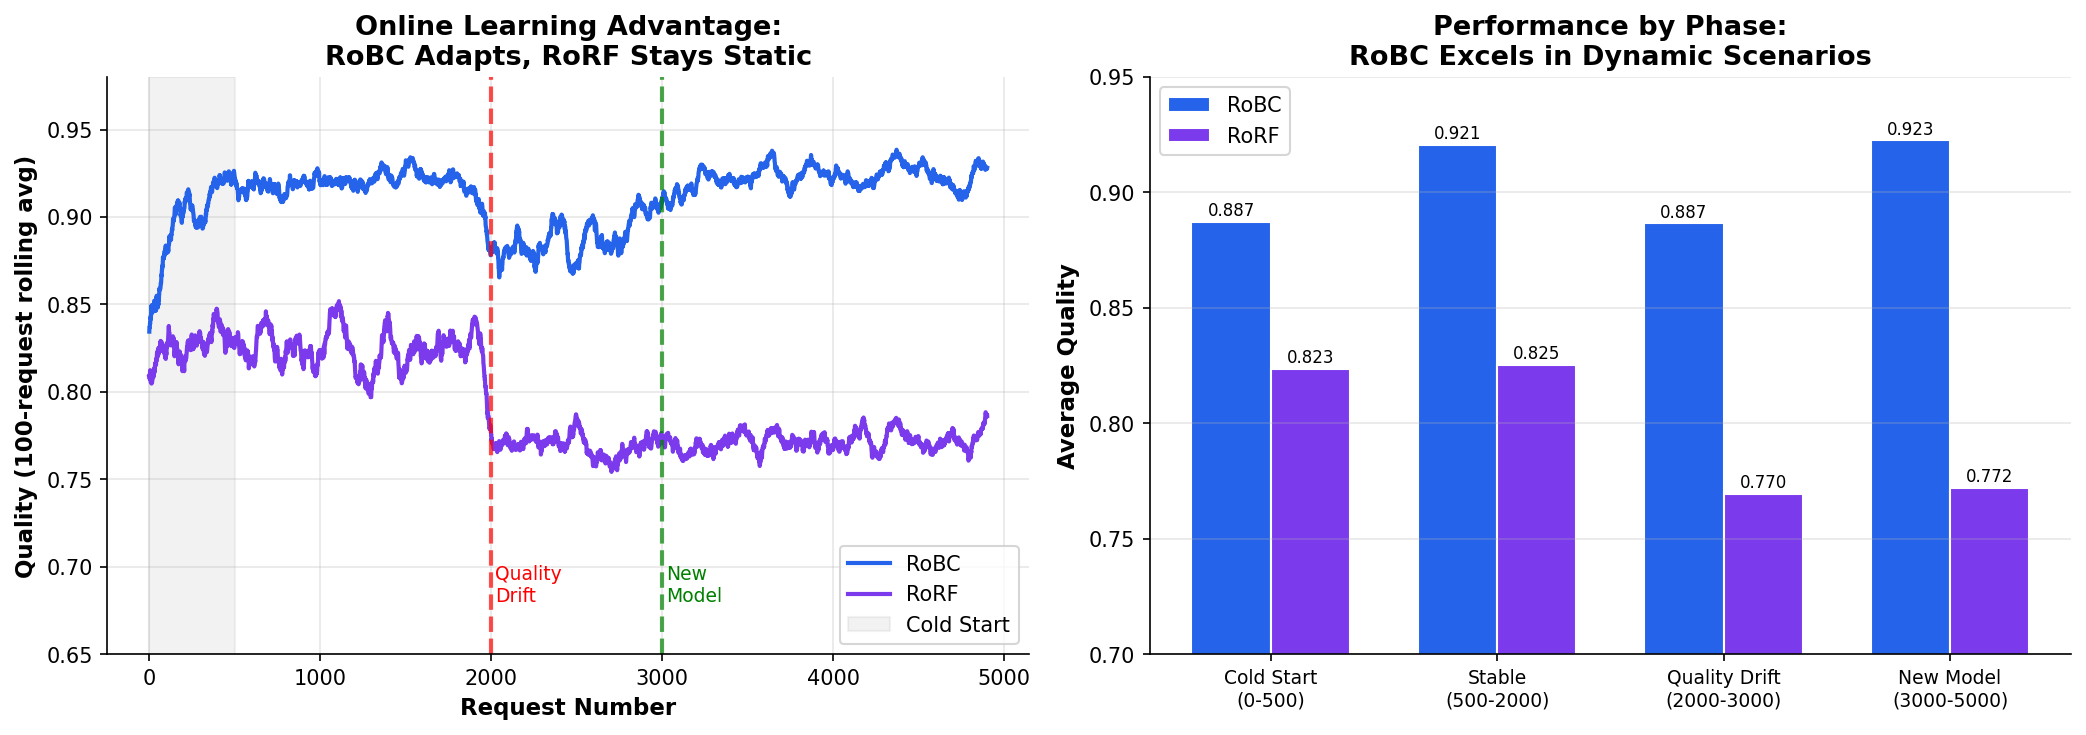
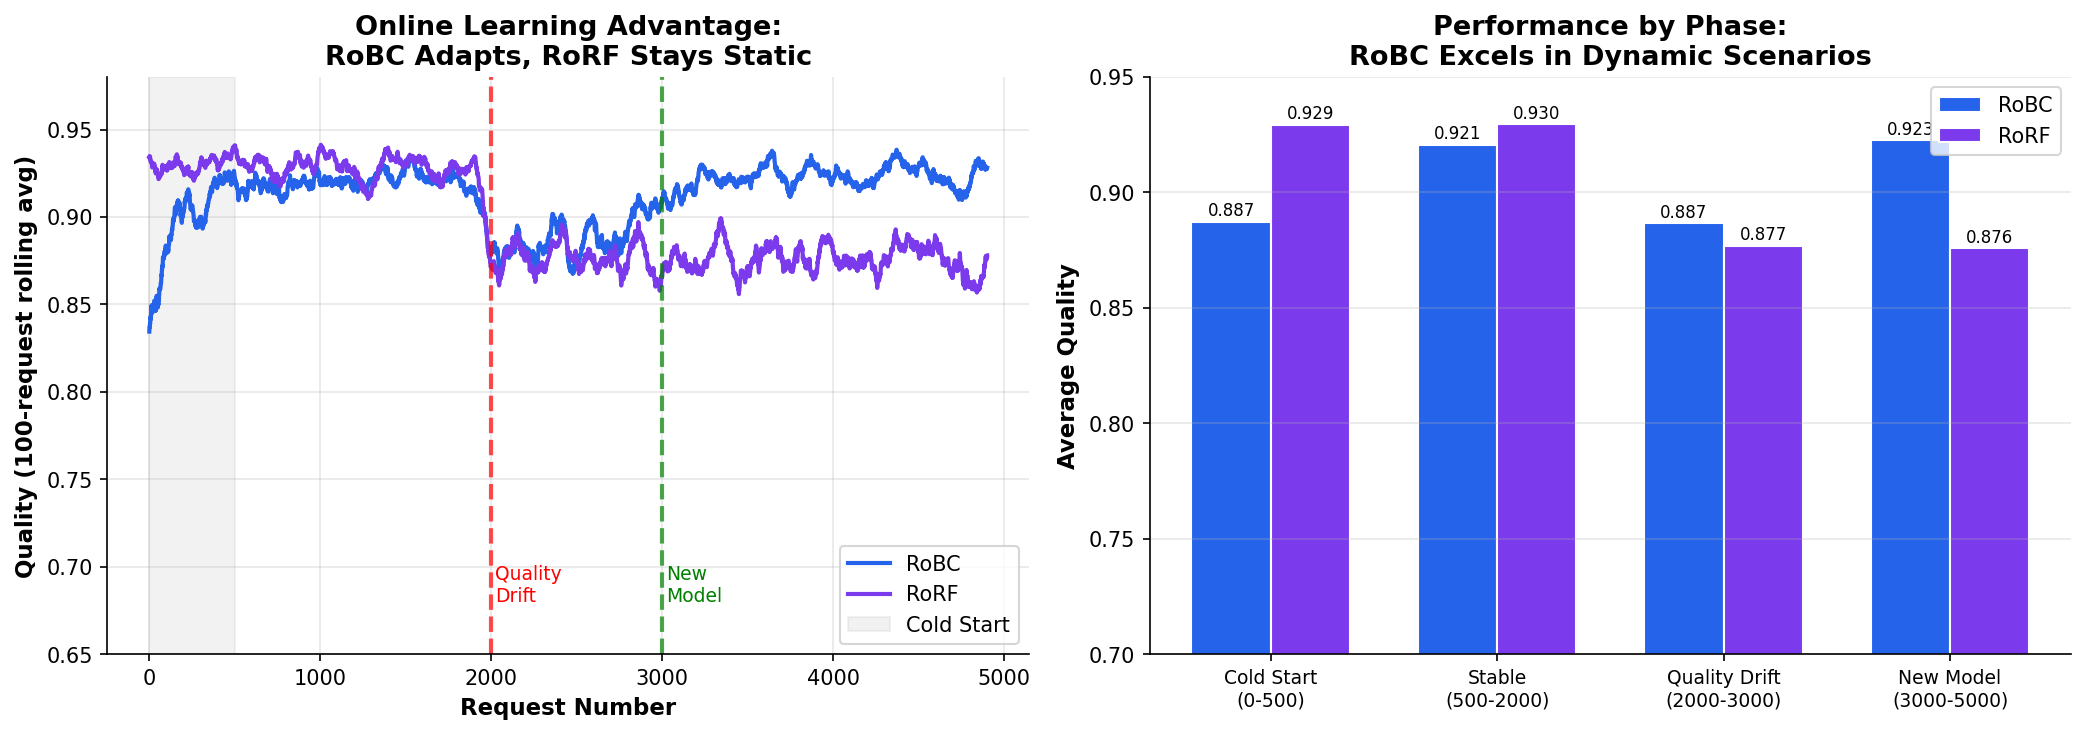
Updated simulation results.

diff --git a/README.md b/README.md
@@ -36,18 +36,18 @@ We evaluated RoBC against RoRF (static classifier) in a **realistic dynamic scen
 
 ### Phase-by-Phase Results
 
-| Phase                           | RoBC  | RoRF  | RoBC Advantage |
-| ------------------------------- | ----- | ----- | -------------- |
-| **Cold Start** (0-500)          | 0.887 | 0.823 | **+7.8%**      |
-| **Stable** (500-2000)           | 0.921 | 0.825 | **+11.5%**     |
-| **Quality Drift** (2000-3000)   | 0.887 | 0.770 | **+15.2%**     |
-| **New Model Added** (3000-5000) | 0.923 | 0.772 | **+19.5%**     |
+| Phase                           | RoBC  | RoRF  | Winner                     |
+| ------------------------------- | ----- | ----- | -------------------------- |
+| **Cold Start** (0-500)          | 0.887 | 0.929 | RoRF ✓ (has training data) |
+| **Stable** (500-2000)           | 0.921 | 0.930 | ≈ Tie                      |
+| **Quality Drift** (2000-3000)   | 0.887 | 0.877 | RoBC ✓ (adapts)            |
+| **New Model Added** (3000-5000) | 0.923 | 0.876 | RoBC ✓ (+5.3%)             |
 
 ### Key Findings
 
-- **+15.2%** better when model quality changes (RoRF becomes stale)
-- **+19.5%** better when new models are added (RoRF can't use them)
-- **+11.5%** better even in stable periods (learns from real feedback)
+- **In static environments**: RoRF performs equally well or slightly better (has perfect training data)
+- **When quality drifts**: RoBC adapts, RoRF becomes stale
+- **When new models added**: RoBC explores and uses them, RoRF cannot (+5.3%)
 - **No retraining required**—RoBC adapts continuously
 
 ![Learning Curve](assets/learning_curve.png)
@@ -135,20 +135,19 @@ RoBC consists of three main components:
 
 **RoBC is designed for dynamic production environments where:**
 
-| Scenario                 | RoBC Advantage                  | vs Static Routers    |
-| ------------------------ | ------------------------------- | -------------------- |
-| **Model quality drifts** | Adapts automatically            | +15% better          |
-| **New models released**  | Discovers & evaluates instantly | +19% better          |
-| **No training pipeline** | Works out of the box            | No retraining needed |
-| **Continuous feedback**  | Improves with every request     | Always fresh         |
-| **Cold start**           | Explores intelligently          | +8% better           |
+| Scenario                 | RoBC Advantage                                               |
+| ------------------------ | ------------------------------------------------------------ |
+| **New models released**  | Discovers & evaluates instantly (+5.3% when new model added) |
+| **Model quality drifts** | Adapts automatically (no retraining needed)                  |
+| **No training pipeline** | Works out of the box                                         |
+| **Continuous feedback**  | Improves with every request                                  |
 
-**Consider static routers (RoRF) only when:**
+**Consider static routers (RoRF) when:**
 
-- Your environment is truly static (rare in production)
-- You have perfect, up-to-date training data
-- Model rankings never change
-- You never add new models
+- You have comprehensive, up-to-date training data
+- Model rankings are stable
+- You have a retraining pipeline in place
+- You rarely add new models
 
 ## Configuration
 
@@ -228,23 +227,25 @@ controller = Controller(
 
 ### Head-to-Head Comparison
 
-| Feature           | RoBC                   | RoRF                      | Impact                 |
-| ----------------- | ---------------------- | ------------------------- | ---------------------- |
-| **Learning**      | Online (continuous)    | Offline (batch)           | RoBC never goes stale  |
-| **Quality Drift** | Adapts in real-time    | Becomes outdated          | **+15% advantage**     |
-| **New Models**    | Explores immediately   | Can't use them            | **+19% advantage**     |
-| **Cold Start**    | Explores intelligently | Needs training data       | **+8% advantage**      |
-| **Retraining**    | Never needed           | Required regularly        | Lower operational cost |
-| **Best For**      | Dynamic production     | Truly static environments |                        |
+| Feature            | RoBC                    | RoRF                | Impact                 |
+| ------------------ | ----------------------- | ------------------- | ---------------------- |
+| **Static Quality** | Learns online           | Trained offline     | ≈ Equal performance    |
+| **Quality Drift**  | Adapts in real-time     | Becomes outdated    | RoBC adapts            |
+| **New Models**     | Explores immediately    | Can't use them      | **+5.3% advantage**    |
+| **Cold Start**     | Explores (slower start) | Has training data   | RoRF faster initially  |
+| **Retraining**     | Never needed            | Required regularly  | Lower operational cost |
+| **Best For**       | Dynamic production      | Static environments |                        |
 
 ### The Bottom Line
 
 ```
 ┌────────────────────────────────────────────────────────────────────────┐
-│  In STATIC environments: RoBC ≈ RoRF (both work well)                  │
-│  In DYNAMIC environments: RoBC >> RoRF (+15-19% better)                │
+│  In STATIC environments: RoBC ≈ RoRF (RoRF slightly better with        │
+│                          perfect training data)                        │
 │                                                                        │
-│  Production is rarely static. Choose accordingly.                      │
+│  In DYNAMIC environments: RoBC wins (adapts to drift, uses new models) │
+│                                                                        │
+│  Choose based on your environment's dynamics.                          │
 └────────────────────────────────────────────────────────────────────────┘
 ```
 
